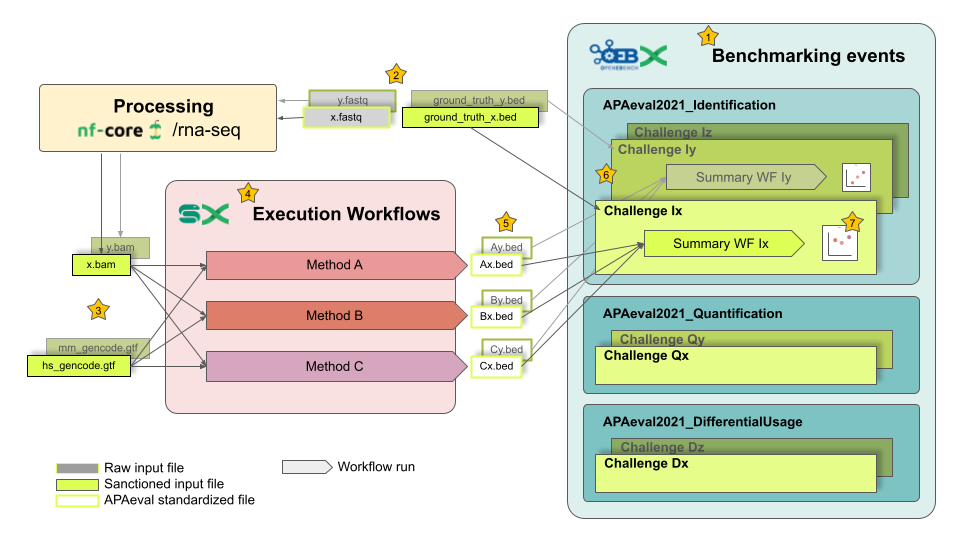
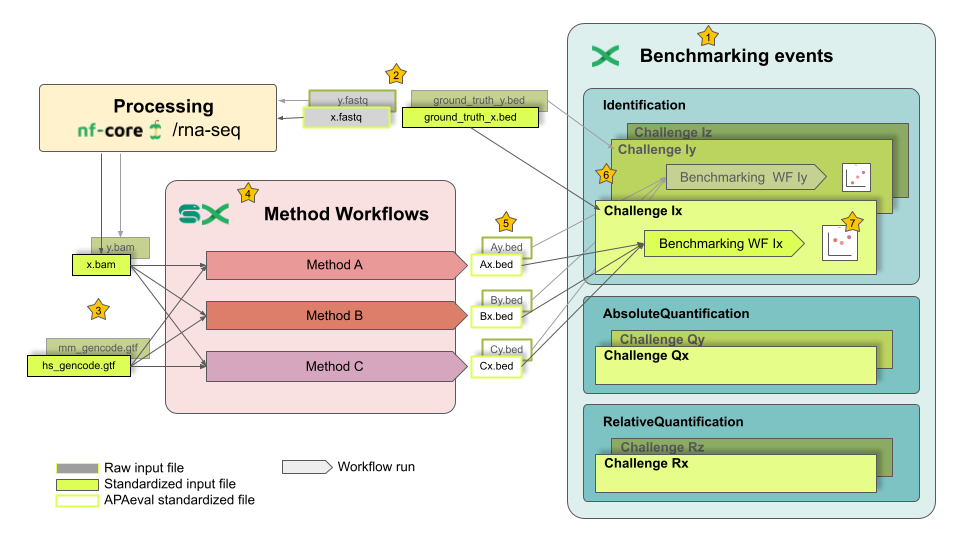
docs: update overview

diff --git a/README.md b/README.md
@@ -5,30 +5,56 @@
 
 Welcome to the [APAeval][apa-eval] GitHub repository.
 
-**APAeval** is a community effort to evaluate computational methods for the
-detection and quantification of poly(A) sites and the estimation of their
-differential usage across RNA-seq samples.
+**Quick links**
+- [Use a benchmarked method on your own RNA-seq data](#use-a-benchmarked-method-on-your-own-rna-seq-data)
+- [Benchmark a new method](#benchmark-a-new-method)
+- [Extend APAeval's benchmarks](#extend-apaevals-benchmarks)
+
+**APAeval** is a community effort that was born as the **APAeval hackathon at the RNA 2021 Conference**. We are aiming to evaluate computational methods for the detection and quantification of poly(A) sites from RNA-seq samples in an open, reproducible and extensible manner.
+
+
+
 
 [![logo][apa-eval-logo]][apa-eval]
 
-## What is APAeval?
+<!-- TOC -->
 
-APAeval consists of three **benchmarking events**, each consisting of a set of **challenges** for bioinformatics methods (=**participants**) that:
+- [Overview of APAeval benchmarking](#overview-of-apaeval-benchmarking)
+- [What can you do?](#what-can-you-do)
+    - [Use a benchmarked method on your own RNA-seq data](#use-a-benchmarked-method-on-your-own-rna-seq-data)
+    - [Benchmark a new method](#benchmark-a-new-method)
+    - [Extend APAeval's benchmarks](#extend-apaevals-benchmarks)
+- [Some technical stuff](#some-technical-stuff)
+    - [OpenEBench](#openebench)
+    - [APAeval conda environment](#apaeval-conda-environment)
+    - [Tutorials](#tutorials)
+- [Code of Conduct](#code-of-conduct)
+- [Open Science, licenses & attribution](#open-science-licenses--attribution)
+- [Get in touch](#get-in-touch)
+- [Contributors ✨](#contributors-)
+
+<!-- /TOC -->
+
+## Overview of APAeval benchmarking
+
+APAeval currently consists of three **benchmarking events**, each consisting of a set of **challenges** for bioinformatics methods (=**participants**) that:
 
 1. **Identify** polyadenylation sites
-2. **Quantify** polyadenylation sites
-3. Calculate **differential usage** of polyadenylation sites
+2. Report poly(A) site expression as **absolute quantification** in TPM
+3. Report **relative expression** of poly(A) sites within transcripts
+ 
+> We'd still like to set up a fourth event to evaluate tools that calculate **differential usage** of polyadenylation sites. If you'd like to contribute, continue reading [below](#extend-apaevals-benchmarks).
 
-For more info, please refer to our [landing page][apa-eval].
-
-
-
-## Overview
 ![schema][apa-eval-overview]
-1. APAeval consists of three benchmarking events to evaluate the performance of different tasks that the methods of interest (=participants) might be able to perform: PAS identification, quantification, and assessment of their differential usage. A method can participate in one, two or all three events, depending on its functions.
+
+1. As described above, APAeval consists of three benchmarking events to evaluate the performance of different tasks that the methods of interest (=participants) might be able to perform: PAS identification, absolute quantification, and relative quantification. A method can participate in one, two or all three events, depending on its functions.
 2. Raw data: For challenges within the benchmarking events, APAeval is using data from several different selected publications. Generally, one dataset (consisting of one or more samples) corresponds to one challenge (here, datasets for challenges x and y are depicted). All raw RNA-seq data is processed with nf-core/rna-seq for quality control and mapping. For each dataset we provide a matching ground truth file, created from 3’ end seq data from the same publications as the raw RNA-seq data, that will be used in the challenges to assess the performance of participants.
 3. Sanctioned input files: The processed input data is made available in .bam format. Additionally, for each dataset a gencode annotation in .gtf format, as well as a reference PAS atlas in .bed format for participants that depend on pre-defined PAS (not shown), are provided. 
 4. In order to evaluate each participant in different challenges, a re-usable “execution workflow” has to be written in either snakemake or nextflow. Within this workflow, all necessary pre- and post-processing steps that are needed to get from the input formats provided by APAeval (see 3.), to the output specified by APAeval in their metrics specifications (see 5.) have to be performed. 
+5. To ensure compatibility with the workflows of the benchmarking events, specifications for file formats (output of execution workflows = input for benchmarking workflows) are provided by APAeval. 
+6. Within a benchmarking event, one or more challenges will be performed. A challenge is primarily defined by the input dataset used for performance assessment. Results of a challenge (metrics) are computed for each participant within a "summary workflow" (=benchmarking workflow). 
+7. In order to compare the performance of participants, results for each participant are uploaded to the [OEB database](#openebench), where metrics for all participants are visualized per challenge.
+
 ## What can you do?
 
 ### Use a benchmarked method on your own RNA-seq data
